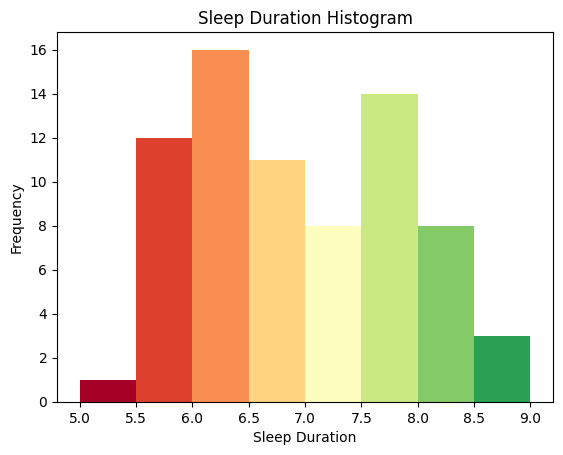
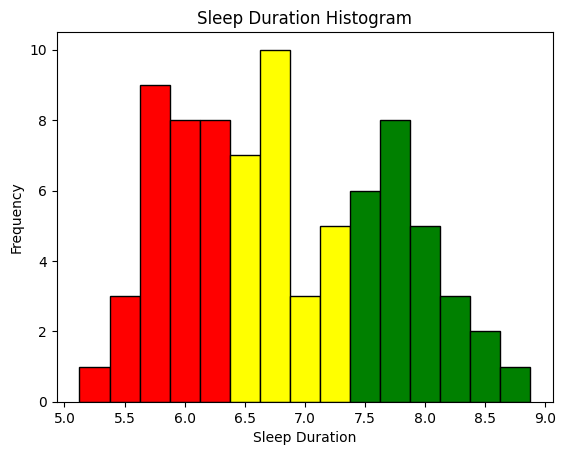
standardized color categorization across plots

diff --git a/make_plots.py b/make_plots.py
@@ -29,33 +29,18 @@ def plot_sleep(filename="sleep.csv"):
     df['date'] = pd.to_datetime(df['date'])
     df['duration'] = (df['stop'] - df['start']).dt.total_seconds() / (60 * 60)
 
-    # df['duration2'] = (df['stop_time_hr'] - df['start_time_hr']).dt.total_seconds() / (60 * 60)
-    # print(df[['duration', 'start_time_hr', 'start', 'stop_time_hr', 'stop']])
-    # midnight = datetime.time()
-    # df['start'] = (df['start'] - pd.to_datetime(df['date'] + ' ' + str(midnight))).dt.total_seconds() / (60 * 60)
-    # df['stop'] = (df['stop'] - pd.to_datetime(df['date'] + ' ' + str(midnight))).dt.total_seconds() / (60 * 60)
-    # print(df.head())
-
-    # formatted_dates = df['date'].dt.strftime('%Y-%m-%d')
-    # print(formatted_dates)
-    # df['date_num'] = df['date'].apply(date2num)
-
     # plot duration vs date
     fig = plt.figure()
-    # lm = sns.lmplot(data=df, x='date_num', y='duration', ci=None)
-    # plt.plot(df['date_num'], df['duration'], color='black')
     plt.plot(df['date'], df['duration'], color='black')
     plt.scatter(df['date'], df['duration'], color='black')
-    # ax = lm.ax
     plt.xlabel('Date')
     plt.ylabel('Sleep Duration')
     plt.title('Sleep Duration Over Time')
     # Add horizontal lines at certain hours
     y_min, y_max = plt.ylim()
-    plt.axhspan(8, y_max, facecolor='lightgreen', alpha=0.5)
-    plt.axhspan(7, 8, facecolor='lightcyan', alpha=0.5)
-    plt.axhspan(6, 7, facecolor='khaki', alpha=0.5)
-    plt.axhspan(y_min, 6, facecolor='lightcoral', alpha=0.5)
+    plt.axhspan(7.5, y_max, facecolor='lightgreen', alpha=0.5)
+    plt.axhspan(6.5, 7.5, facecolor='khaki', alpha=0.5)
+    plt.axhspan(y_min, 6.5, facecolor='lightcoral', alpha=0.5)
     plt.ylim(y_min, y_max)
     # Set the tick locator to ensure proper spacing with a custom interval
     tick_interval = int(len(df['date']) / 7) + 1
@@ -68,16 +53,27 @@ def plot_sleep(filename="sleep.csv"):
     plt.clf()
 
     # histogram of duration in intervals of 0.25
-    bin_interval = 0.5
+    bin_interval = 0.25
     fig = plt.figure()
-    bin_min = math.floor(min(df['duration']) / bin_interval) * bin_interval # math.floor(df['duration'].min())
-    bin_max = math.ceil(max(df['duration']) / bin_interval) * bin_interval # math.ceil(df['duration'].max())
-    bin_edges = np.arange(bin_min, bin_max + bin_interval, bin_interval) 
-    cmap = plt.cm.get_cmap('RdYlGn')
-    n, bins, patches = plt.hist(df['duration'], bins=bin_edges)
-    for patch, bin_val in zip(patches, bins):
-        color_val = (bin_val - min(bins)) / (max(bins) - min(bins))
-        patch.set_facecolor(cmap(color_val))
+    bin_min = math.floor(min(df['duration']) / bin_interval) * bin_interval
+    bin_max = math.ceil(max(df['duration']) / bin_interval) * bin_interval
+    bin_edges = np.arange(bin_min, bin_max + bin_interval, bin_interval)
+    # cmap = plt.cm.get_cmap('RdYlGn')
+    # n, bins, patches = plt.hist(df['duration'], bins=bin_edges)
+    # for patch, bin_val in zip(patches, bins):
+    #     color_val = (bin_val - min(bins)) / (max(bins) - min(bins))
+        # patch.set_facecolor(cmap(color_val))
+    counts, _ = np.histogram(df['duration'], bins=bin_edges)
+    colors = []
+    for i in range(len(bin_edges) - 1):
+        if bin_edges[i+1] <= 6.5:
+            colors.append('red')
+        elif bin_edges[i] >= 7.5:
+            colors.append('green')
+        else:
+            colors.append('yellow')
+    plt.bar(bin_edges[:-1], counts, width=np.diff(bin_edges), color=colors, edgecolor='black')
+    # plt.axvline(separation_point, color='black', linestyle='--')
     plt.xlabel('Sleep Duration')
     plt.ylabel('Frequency')
     plt.title('Sleep Duration Histogram')
@@ -85,50 +81,18 @@ def plot_sleep(filename="sleep.csv"):
     plt.clf()
 
     # plot lines for each day
-    # Create a new column for the combined date and time
-    # print(df[['start', 'stop']].head(10))
-    # new_start_date = '2024-09-03'
-    # new_end_date = '2024-09-04'
-    # # Create a new column that combines the date 2024-09-03 with the time for each row
-    # df['start_time'] = df['start_raw'].str.replace(r'\d{4}-\d{2}-\d{2}', new_start_date, regex=True)
-    # df['start_time'] = pd.to_datetime(df['start_time']) + datetime.timedelta(hours=12)
-    # df['end_time'] = df['stop_raw'].str.replace(r'\d{4}-\d{2}-\d{2}', new_end_date, regex=True)
-    # df['end_time'] = pd.to_datetime(df['end_time'])
-    # df['start_t'] = df.apply(lambda row: row['date'] + pd.DateOffset(hours=row['start'].hour, minutes=row['start'].minute, seconds=row['start'].second), axis=1)
-    # print(df[['date', 'start_time', 'end_time']].head(15))
-    # df['start_datetime'] = df.apply(lambda row: row['date'].replace(hour=row['start'].hour, minute=row['start'].minute, second=row['start'].second), axis=1)
-    # df['stop_datetime'] = df.apply(lambda row: (row['date'] + pd.DateOffset(days=1)).replace(hour=row['stop'].hour, minute=row['stop'].minute, second=row['stop'].second), axis=1)
-    # fig, ax = plt.subplots()
-    # for index, row in df.iterrows():
-    #     start_time = row['start_time'].strftime('%H:%M')
-    #     stop_time = row['end_time'].strftime('%H:%M')
-    #     ax.plot([row['date'], row['date']], [start_time, stop_time], 'k-')
     fig = plt.figure()
     ax = fig.add_subplot(111)
-    first_sunset = 7.75 - 12  # 7:45 am on 2024-09-03
-    first_sunrise = 6.57      # 6:34 am on 2024-09-04
-    last_sunset = 6.77 - 12   # 6:46 am on 2024-10-02
-    last_sunrise = 7.22       # 7:13 am on 2024-10-03
-    first_date = df['date'].min()
-    last_date = df['date'].max()
-    # ax.plot([first_sunset, last_sunset],[first_date, last_date], color='lightgrey', alpha=0.5)
-    # ax.plot([first_sunrise, last_sunrise],[first_date, last_date], color='lightgrey', alpha=0.5)
     for index, row in df.iterrows():
         date = row['date']
-        start_time = row['start_time_hr']  #.strftime('%H:%M')
-        stop_time = row['stop_time_hr']  #.strftime('%H:%M')
-        c = 'k' 
+        start_time = row['start_time_hr']
+        stop_time = row['stop_time_hr']
+        c = 'k'
         if row['duration'] < 6.5:
-            c = 'r' 
-        # elif row['duration'] < 6.5:
-        #     c = 'darkorange'
+            c = 'r'
         elif row['duration'] < 7.5:
             c = 'y'
-        # elif row['duration'] < 7.5:
-        #     c = 'y'
-        # elif row['duration'] < 8:
-        #     c = 'lightgreen'
-        else: 
+        else:
             c = 'g'
         ax.plot([start_time, stop_time], [date, date], color=c)
 
